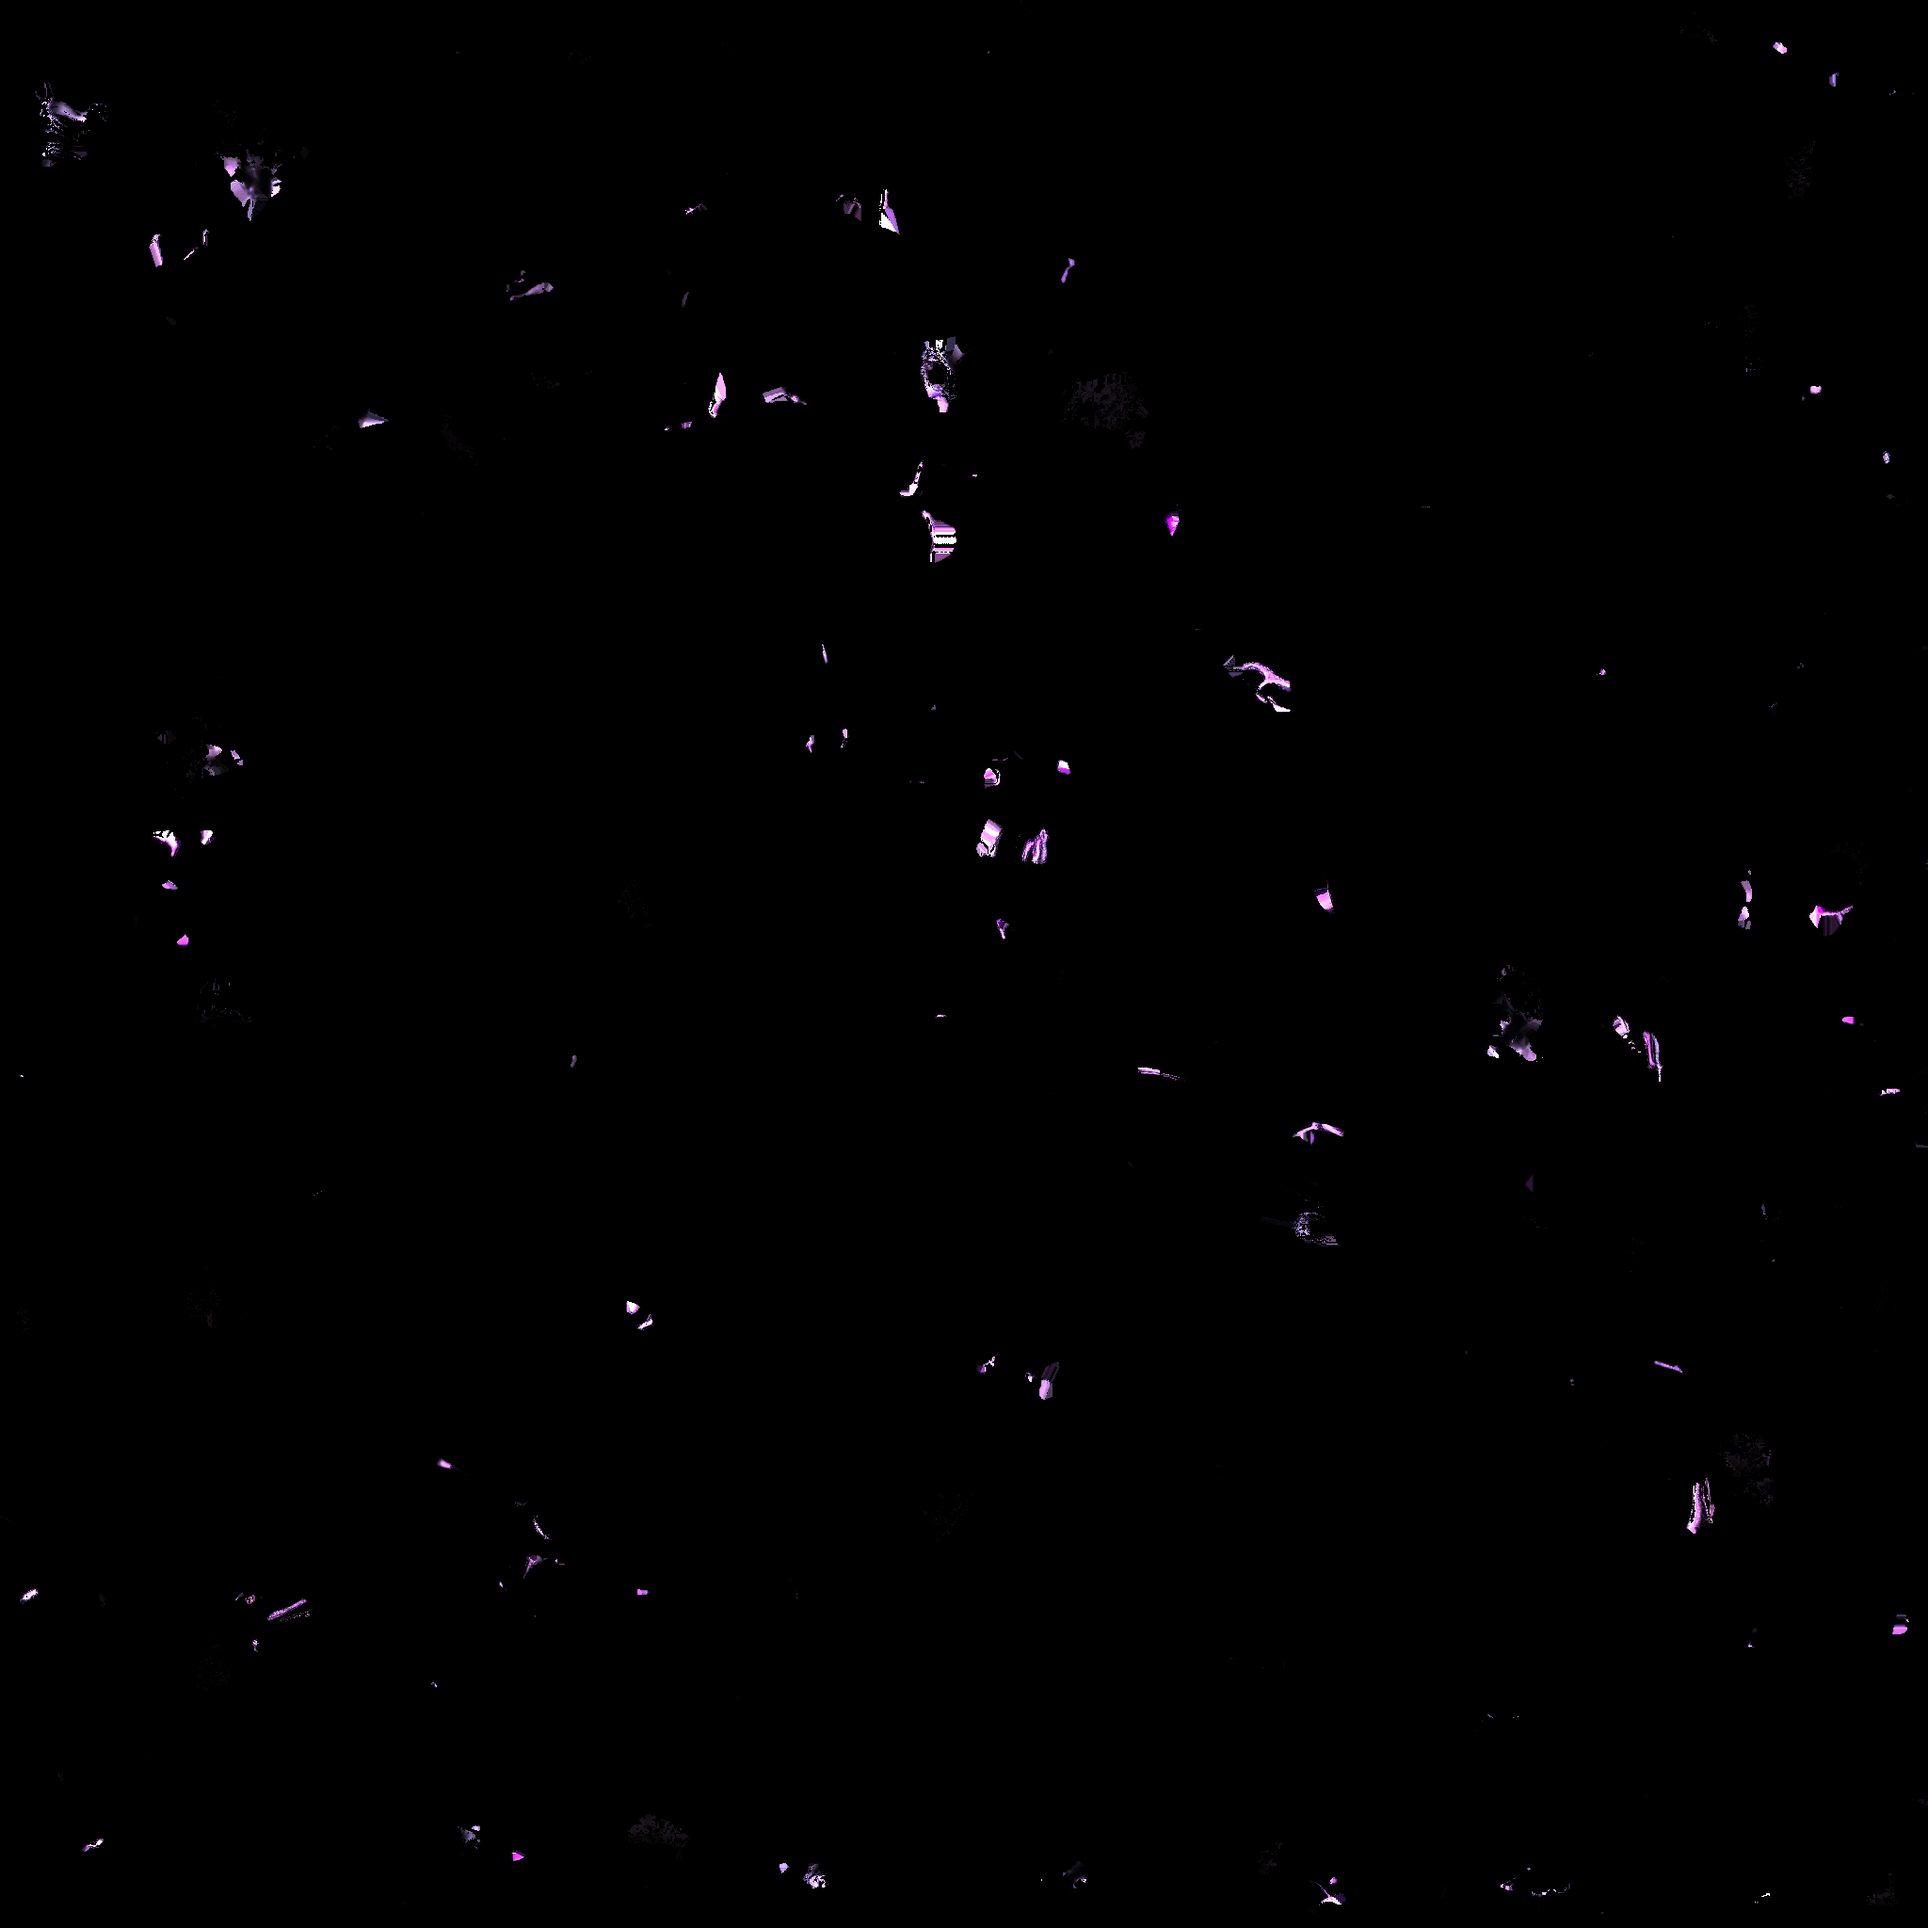
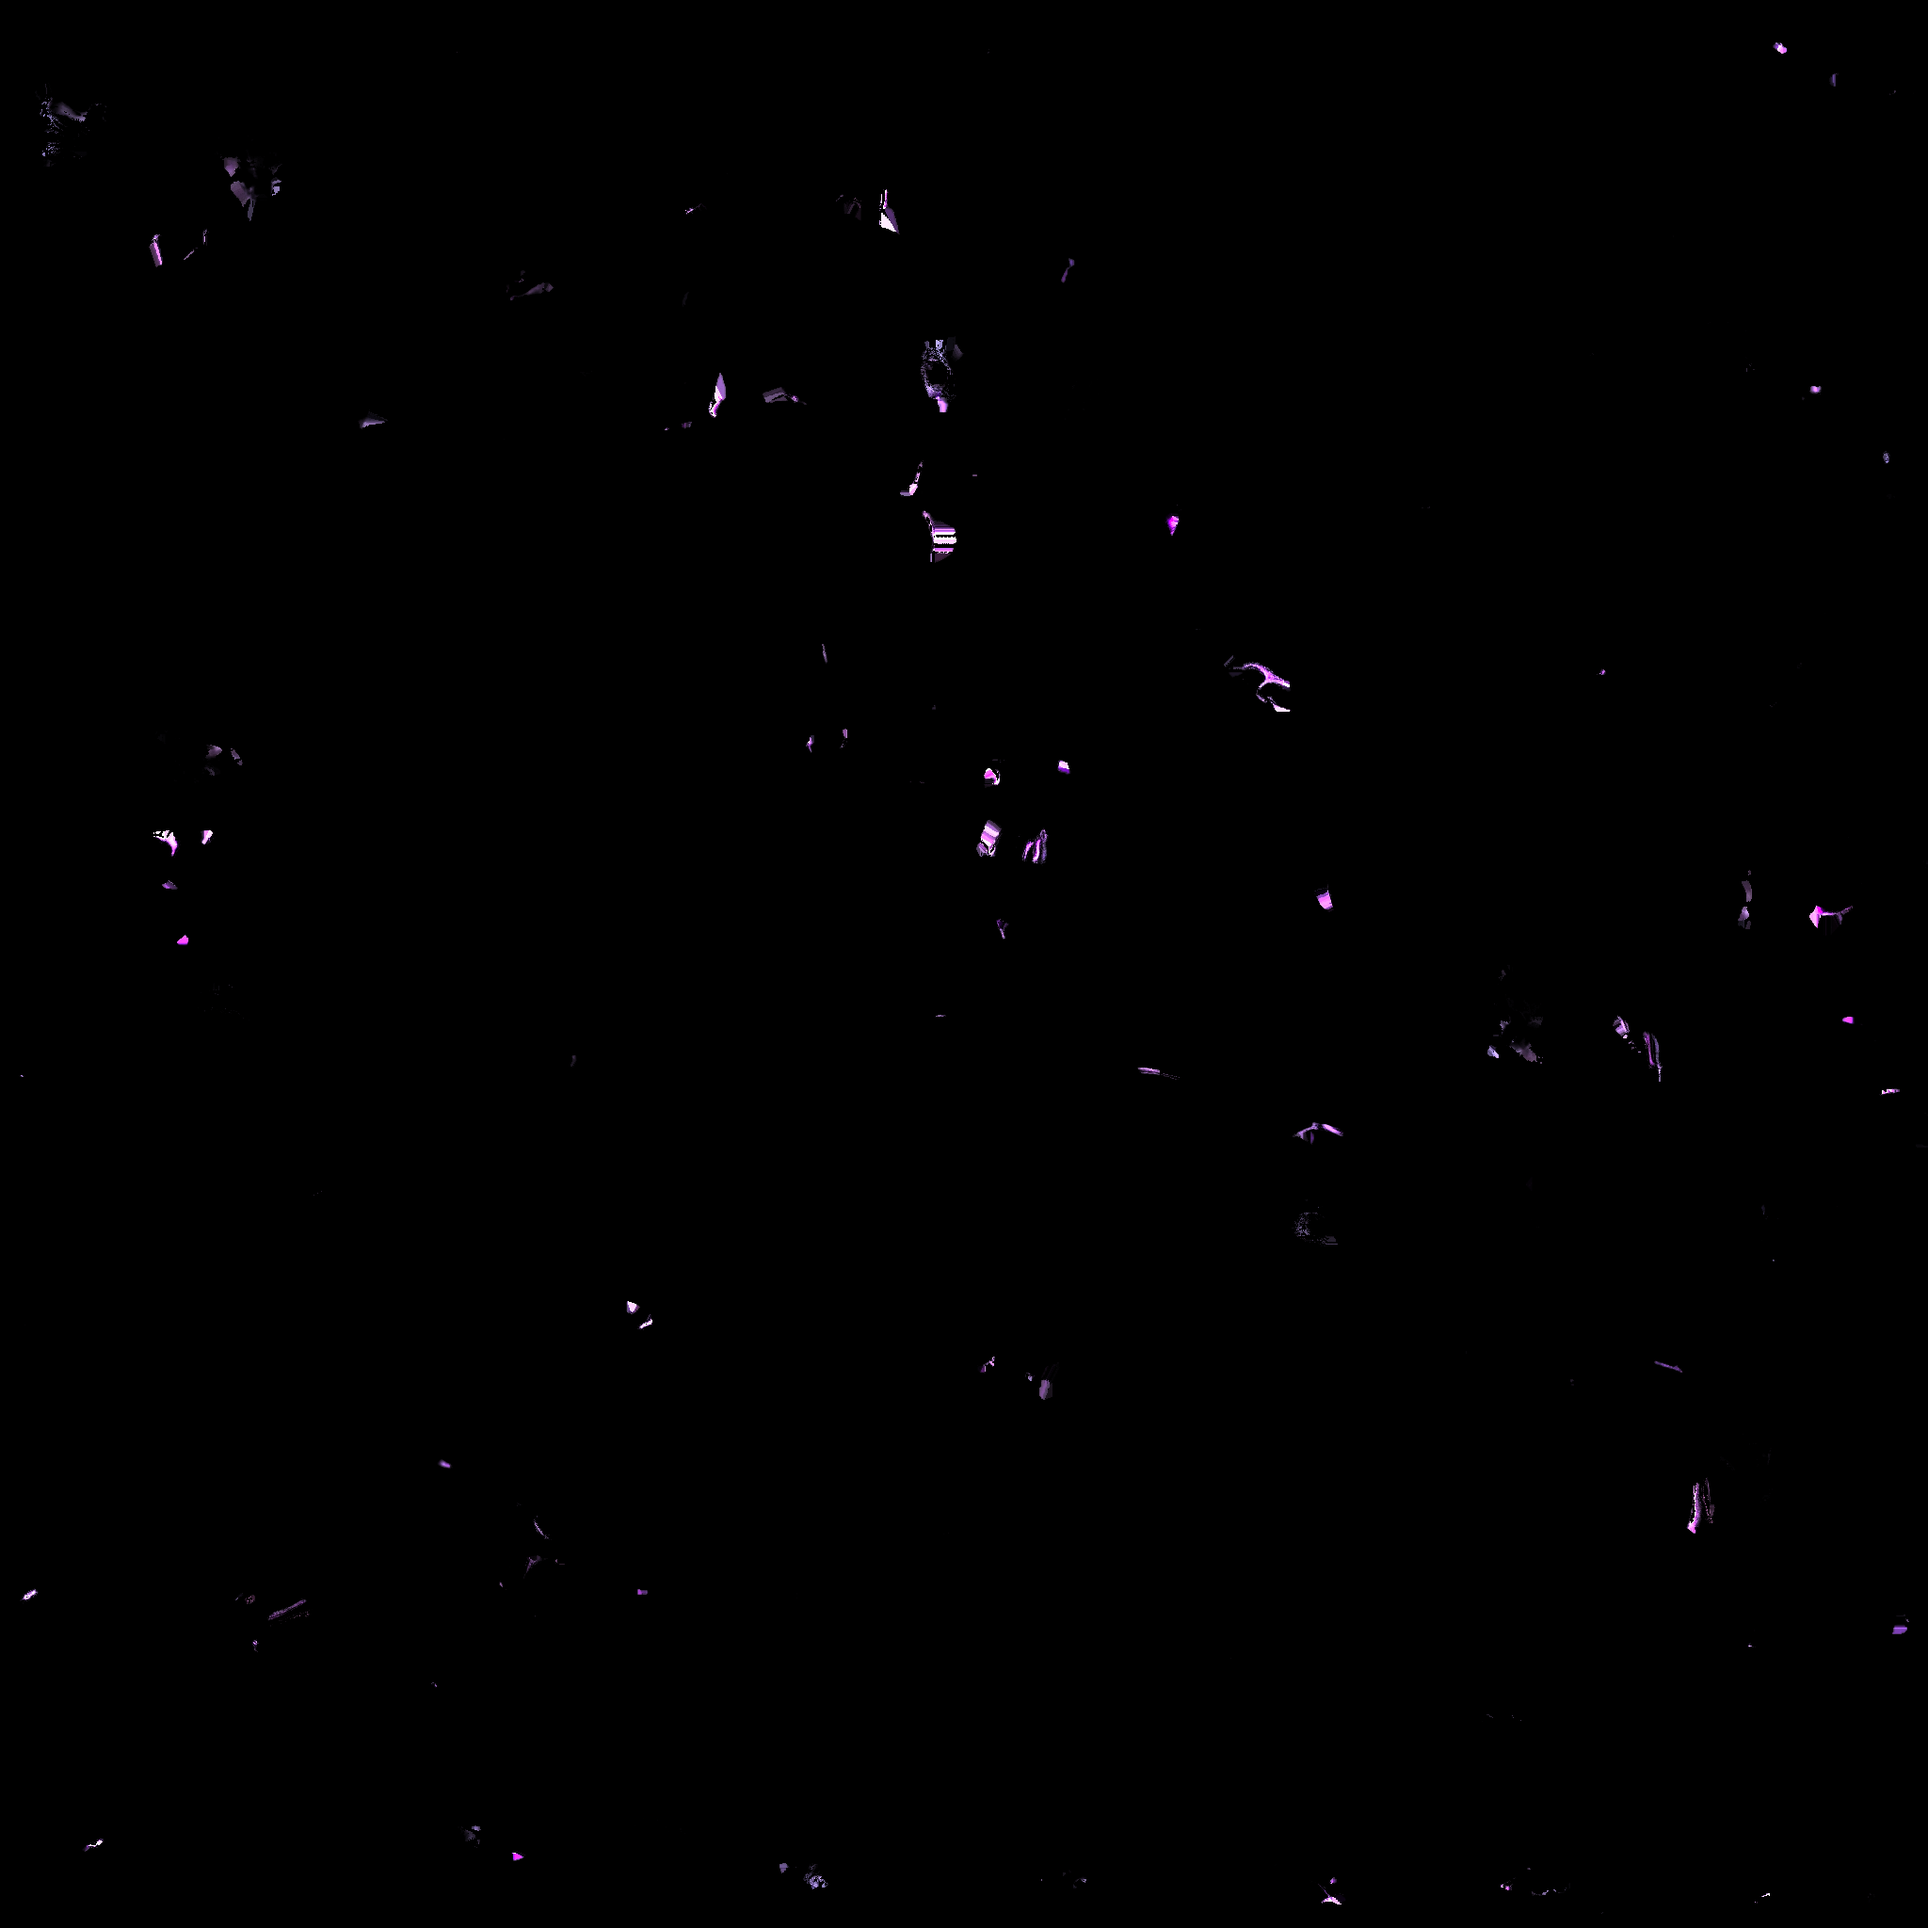
Grave Crown: the king's armor darker (texture 0.9 instead of 1.15: black, as in the concept, not steel grey) and a duller moon shine

diff --git a/Projects/GraveCrown/Tools/characters_generator.py b/Projects/GraveCrown/Tools/characters_generator.py
@@ -94,7 +94,7 @@ GOLEM = {
 CHARACTERS = [
     Enemy("player_rigged.glb", "GraveKing", "grave_king", 2.05, KING,
           Weapon("weapon_greatsword_upright.glb", "grave_greatsword", 1.75, 0.1),
-          is_left_fist=True, is_two_handed=True, brightness=1.15, one_hand_actions=RIDING, straight_spine=True, cape=True),
+          is_left_fist=True, is_two_handed=True, brightness=0.9, one_hand_actions=RIDING, straight_spine=True, cape=True),
     # (smooth_weights tried: it tore the cape into spikes instead of easing the shoulders)
     # The hollow knight of the gods: a long sword of the same forge as the king's (the great sword's model, shorter)
     Enemy("enemy_knight_rigged.glb", "HollowKnight", "hollow_knight", 1.95, ONE_HANDED,

diff --git a/Projects/GraveCrown/Tools/build_scene.py b/Projects/GraveCrown/Tools/build_scene.py
@@ -59,7 +59,7 @@ ENVIRONMENT = {
     "outline_strength": 0.45, "outline_color": [0.06, 0.03, 0.07],
     "paint_radius": 3, "saturation": 0.85, "contrast": 1.18, "color_tint": [1.04, 0.96, 0.93], "vignette": 0.38, "exposure": 1.0,
 }
-MOONLIGHT = {"ambient": [0.2, 0.18, 0.21], "diffuse": [0.9, 0.82, 0.8], "specular": [0.35, 0.32, 0.42],
+MOONLIGHT = {"ambient": [0.2, 0.18, 0.21], "diffuse": [0.9, 0.82, 0.8], "specular": [0.14, 0.12, 0.18],
              "casts_shadows": True, "shadow_distance": 45.0, "shadow_strength": 1.0, "shadow_softness": 1,
              "shadow_resolution": 2048}
 
